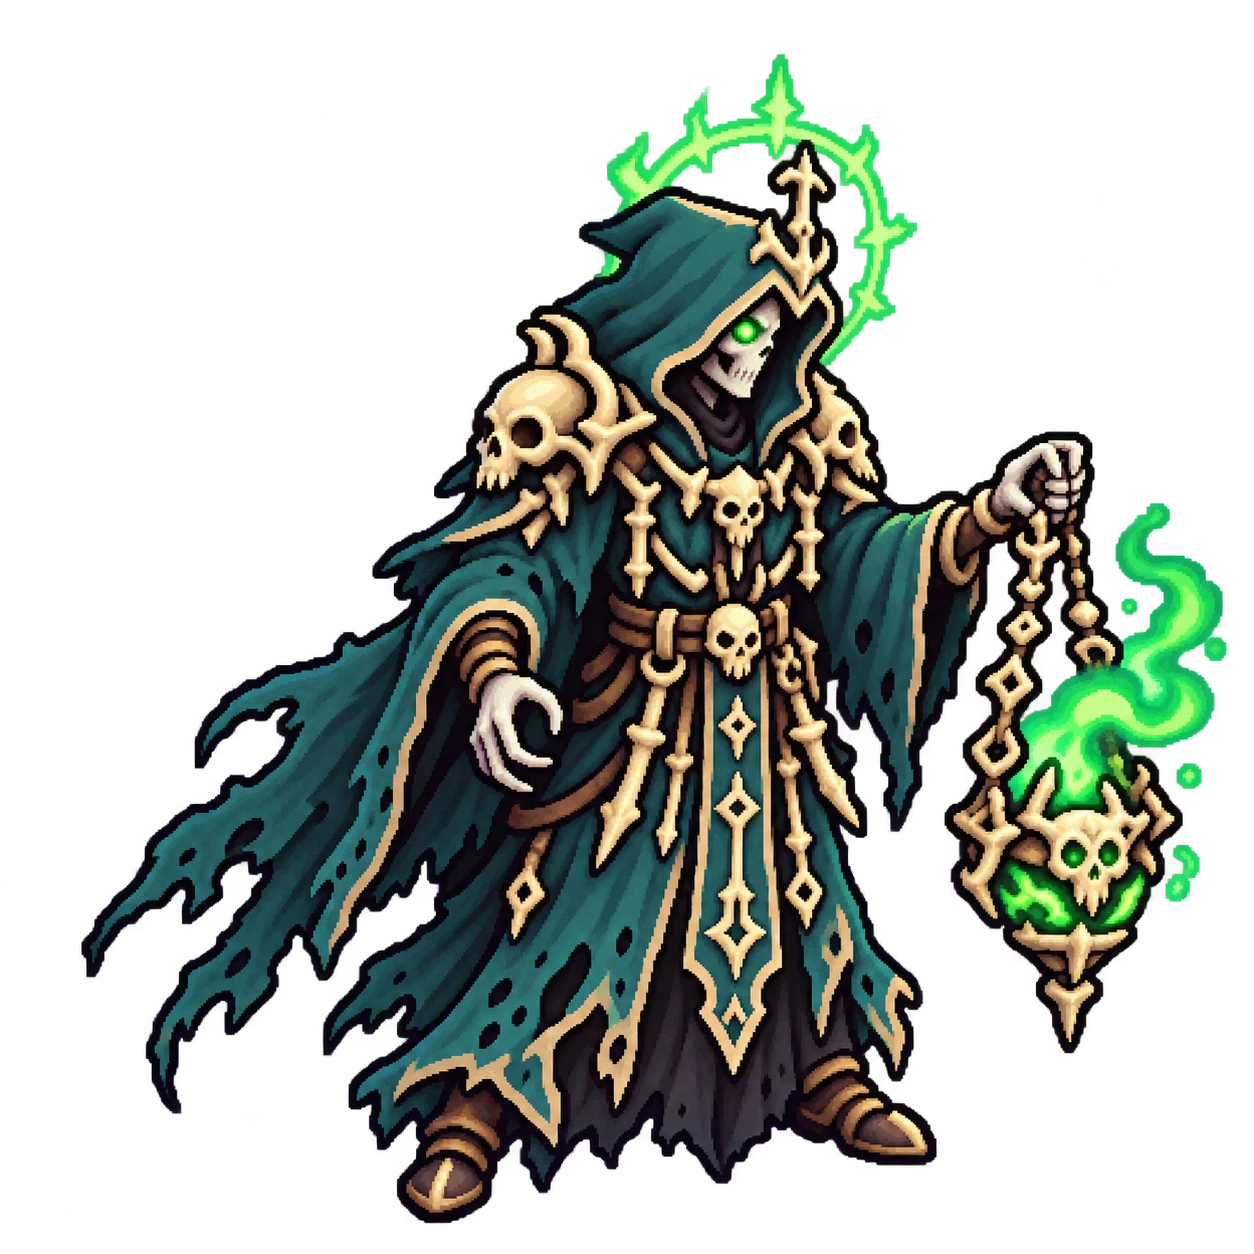
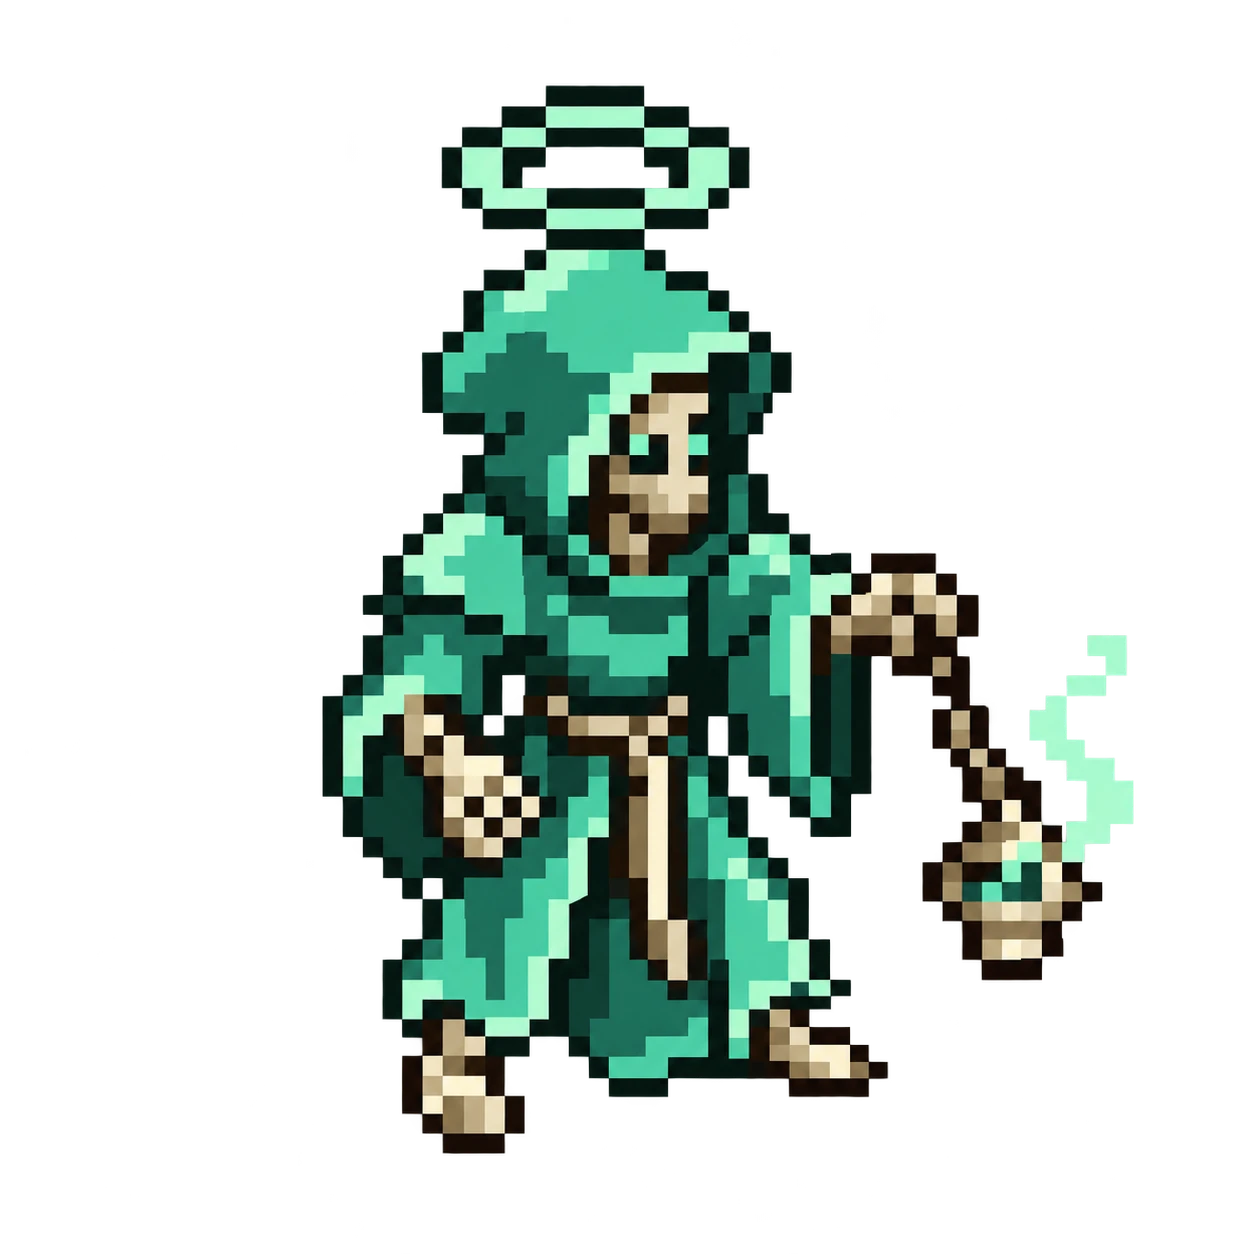
Grave Mender on the grid: 52 px with the halo above a 44 px body
The owner's teal mender converted with --inside-outline --no-prune
--no-levels; the censer's smoke wisp turned soul teal and a few stray moss
pixels turned robe teal by hand.

Claude-Session: https://claude.ai/code/session_01FLPv2RqRe5qVsRWxUhur7z

diff --git a/docs/art/ART_BIBLE.md b/docs/art/ART_BIBLE.md
@@ -452,7 +452,7 @@ The undead army: bone, cold grey and teal soul fire, one accent per class, **no 
 | `warrior.png` | Skeleton Warrior (Anchor 2): bone skull and limbs, cold-grey iron, a round cold-grey shield with a bone boss, short sword, teal eye glints. Signature: the round shield | 44 | done |
 | `archer.png` | Skeleton Archer: bone body, a **moss-green** hood and short cloak (the Archer's accent), a bone bow drawn with a teal soul-fire arrow. Signature: the bow | 44 | done |
 | `mage.png` | Undead Mage: skeleton in a tattered **deep arcane-blue** robe, a staff with an arcane-blue orb (pale blue core). Signature: the orb staff | 46 (body 44, orb above) | done |
-| `mender.png` | Grave Mender: skeletal priest in a round **teal** robe, a teal halo, a swinging bone censer. Signature: the halo | 44 | to redo |
+| `mender.png` | Grave Mender: skeletal priest in a round **teal** robe, a teal halo, a swinging bone censer. Signature: the halo | 52 (body 44, halo above) | done |
 | `warder.png` | Crypt Warder: skeleton in a cold-grey robe with **teal** trim, holding up a shield-shaped teal ward sigil. Signature: the raised sigil | 44 | to redo |
 | `bishop.png` | Profane Bishop: tall teal-and-grey vestments, a bone mitre, a teal halo, a bone crook | 52 | to redo |
 | `death_knight.png` | Death Knight: massive dark cold-grey plate, a skull helm with teal eye glow, a bone-white greatsword | 52 | to redo |
